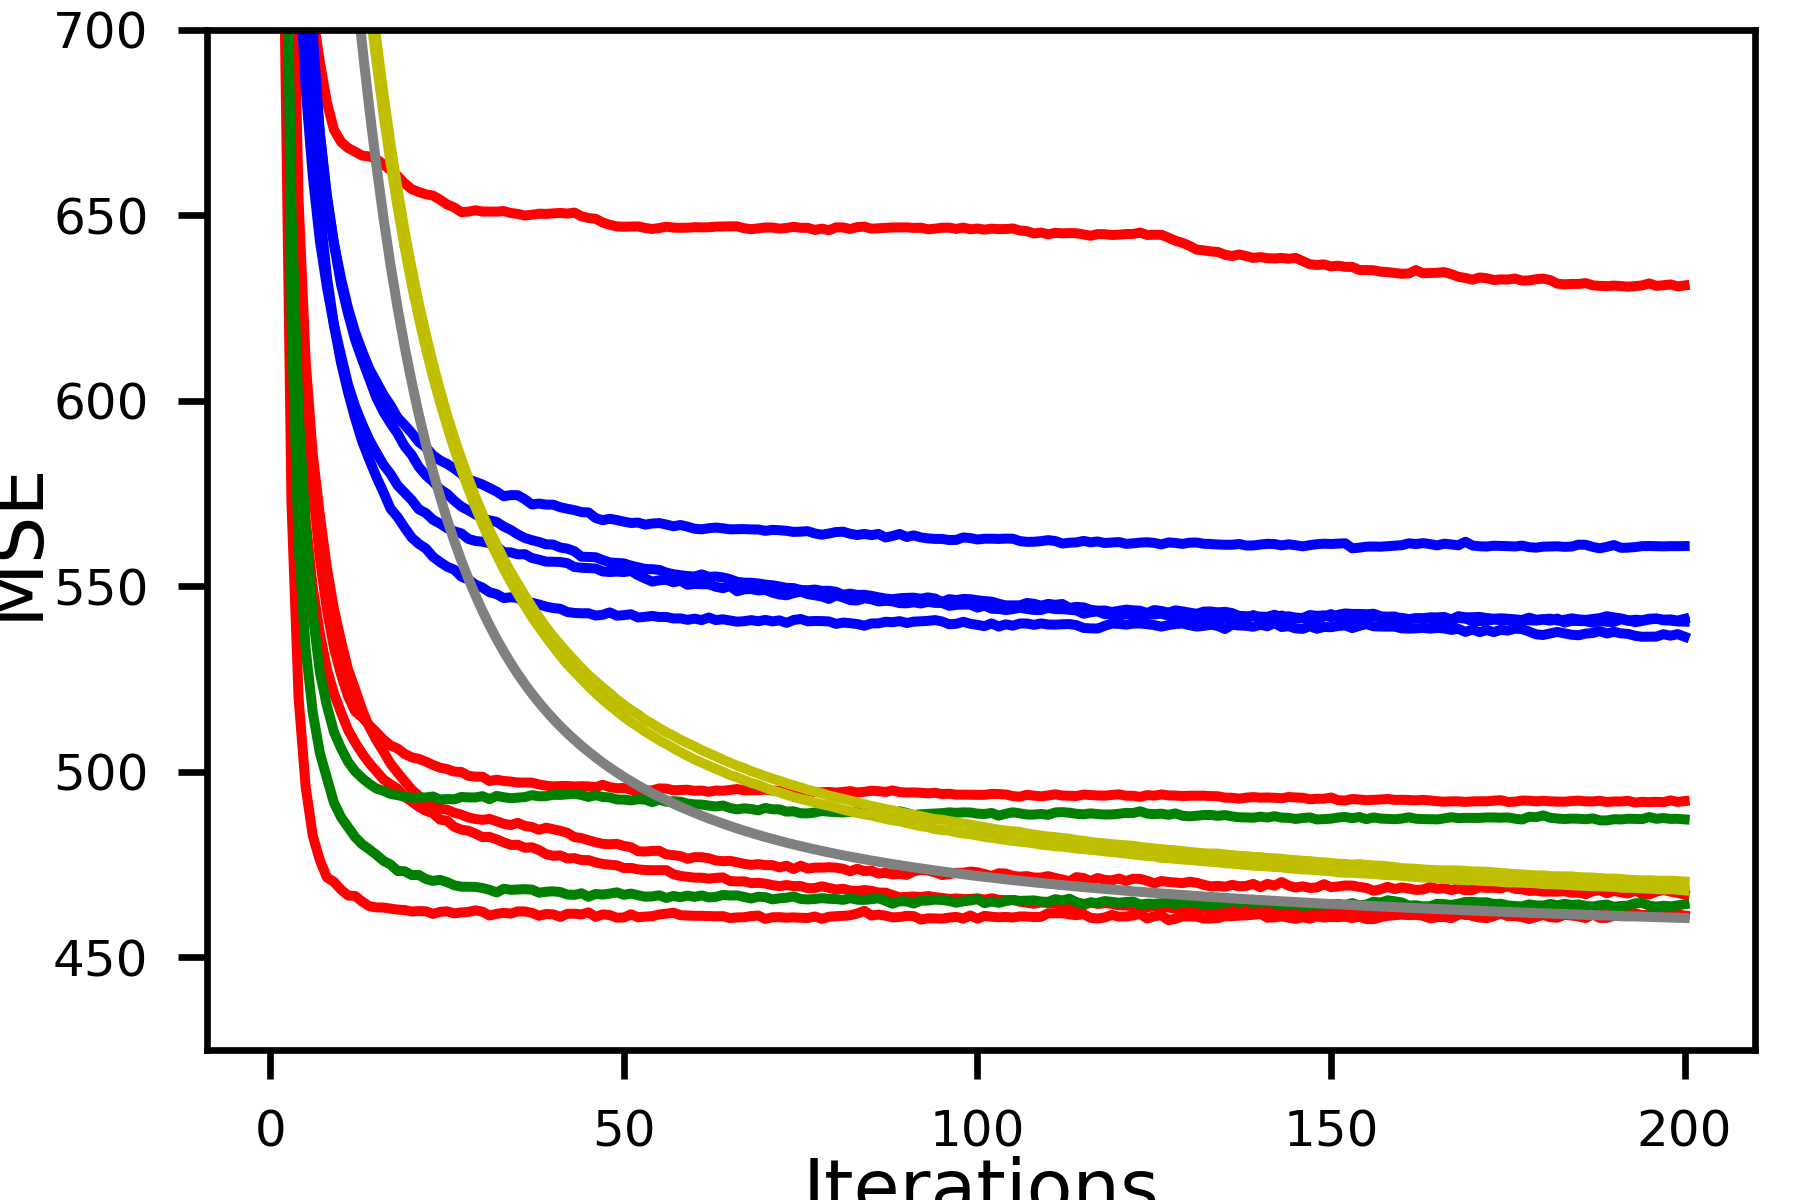
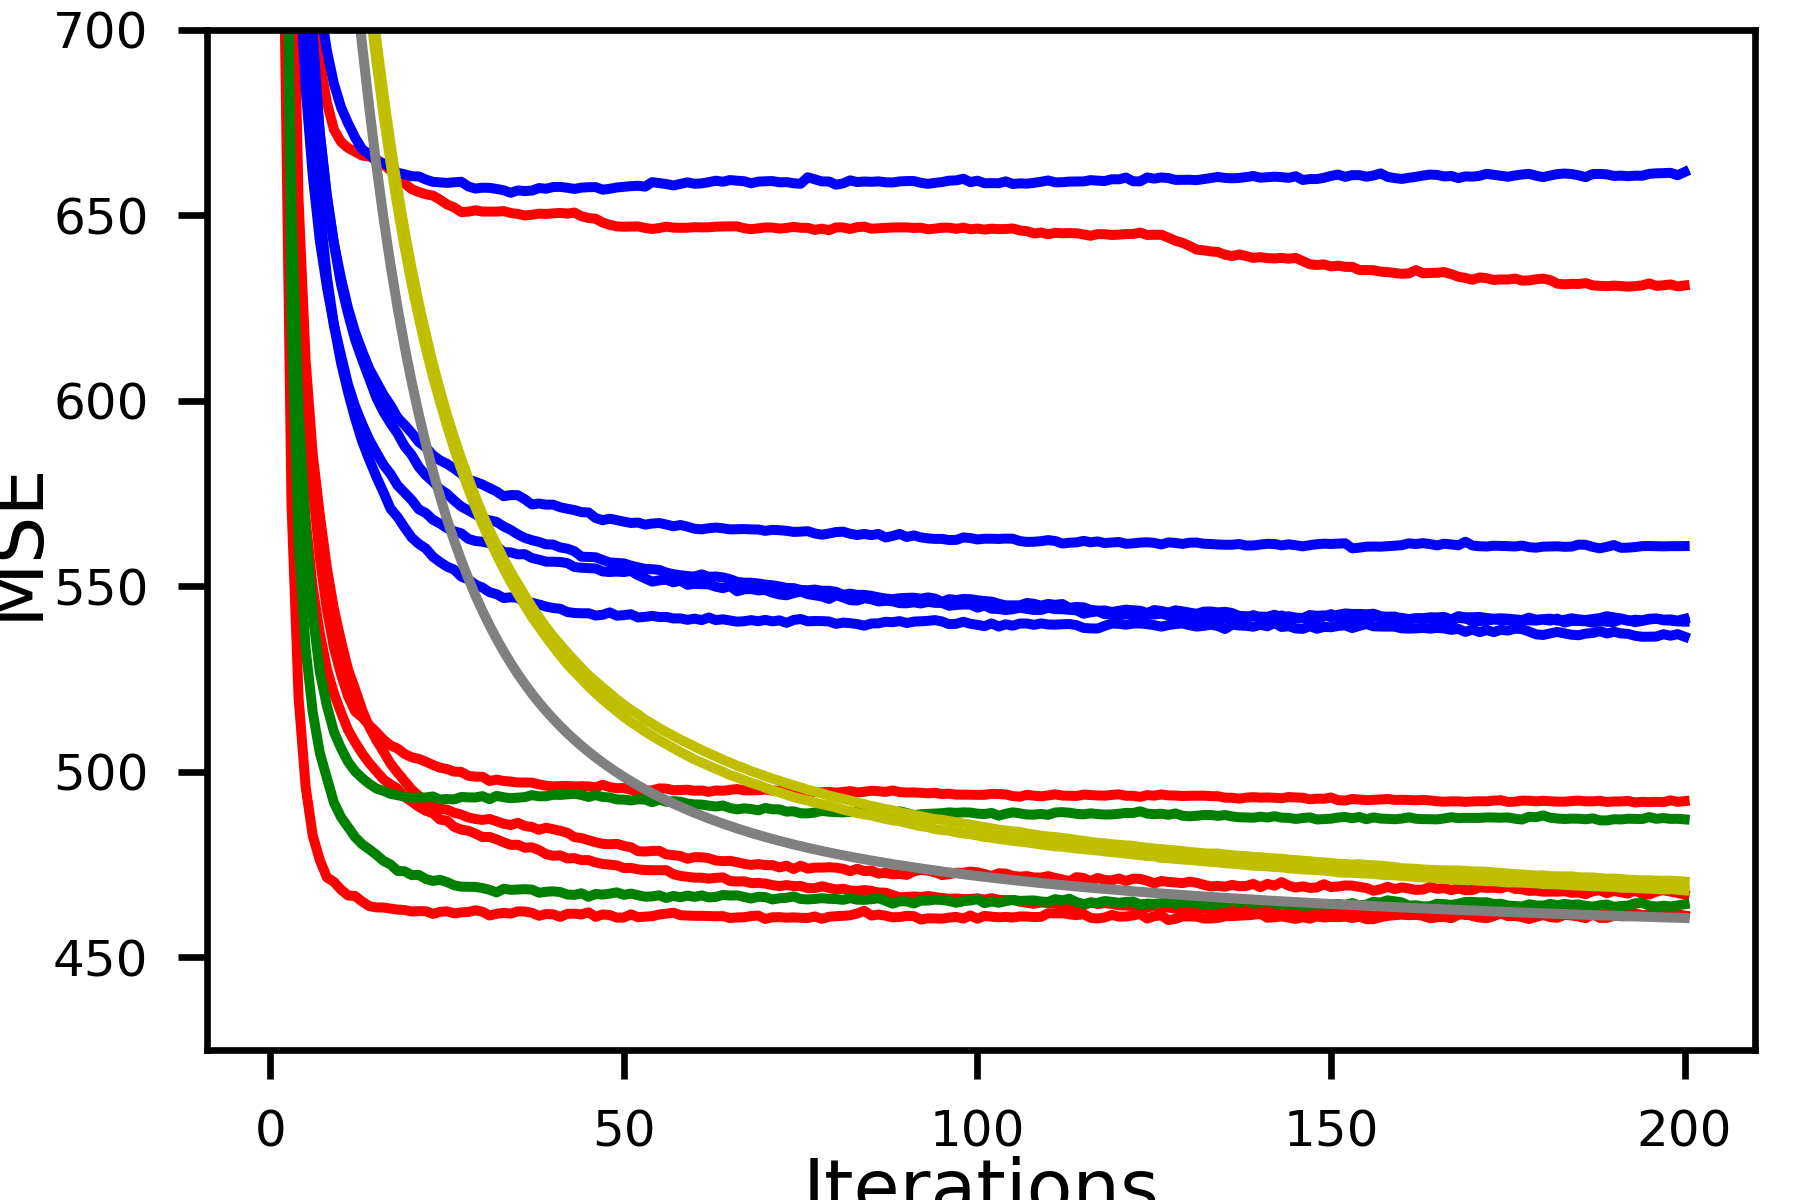
Prepared Jester xval scripts.

Changed region(s): [[0.2178, 0.1233, 0.9333, 0.185], [0.1867, 0.0617, 0.2178, 0.1233], [0.1556, 0.0308, 0.1867, 0.0617]]

diff --git a/experiments/convergence/drug_sensitivity_gdsc/plots/plot_convergences.py b/experiments/convergence/drug_sensitivity_gdsc/plots/plot_convergences.py
@@ -26,7 +26,8 @@ gee = eval(open(folder_results+'performances_gaussian_exponential.txt','r').read
 geea = eval(open(folder_results+'performances_gaussian_exponential_ard.txt','r').read())
 gtt = eval(open(folder_results+'performances_gaussian_truncatednormal.txt','r').read())
 gttn = eval(open(folder_results+'performances_gaussian_truncatednormal_hierarchical.txt','r').read())
-ghh = eval(open(folder_results+'performances_gaussian_halfnormal.txt','r').read())
+gll = eval(open(folder_results+'performances_gaussian_l21.txt','r').read())
+#ghh = eval(open(folder_results+'performances_gaussian_halfnormal.txt','r').read())
 pgg = eval(open(folder_results+'performances_poisson_gamma.txt','r').read())
 pggg = eval(open(folder_results+'performances_poisson_gamma_gamma.txt','r').read())
 
@@ -48,7 +49,7 @@ performances_names_colours_linestyles_markers = [
     (geea, 'GEEA', 'b', '-', ''),
     (gtt,  'GTT',  'b', '-', ''),
     (gttn, 'GTTN', 'b', '-', ''),
-#    (ghh,  'GHH',  'b', '-', ''),
+    (gll,  'GLL',  'b', '-', ''),
     (pgg,  'PGG',  'y', '-', ''),
     (pggg, 'PGGG', 'y', '-', ''),
     (nmf_np, 'Row',    'grey', '-', ''),

diff --git a/code/models/Gibbs/initialise.py b/code/models/Gibbs/initialise.py
@@ -93,6 +93,11 @@ def initialise_U_halfnormal(init, I, K, sigma):
         U[i,k] = initialise(sigma=sigma)
     return U
     
+def initialise_U_l21(init, I, K, lamb):
+    """ Initialise U, with prior U ~ L21(lamb).
+        We cannot sample from this prior, so we initialise U_ik ~ TN(0,lamb). """
+    return initialise_U_truncatednormal(init=init, I=I, K=K, mu=0., tau=lamb)
+    
 def initialise_U_volumeprior(init, I, K, gamma):
     """ Initialise U, with prior U ~ VP(gamma).
         We cannot sample from this prior, so we initialise U_ik ~ N(0,1). """

diff --git a/experiments/cross_validation/jester/poisson_gamma_gamma.py b/experiments/cross_validation/jester/poisson_gamma_gamma.py
@@ -3,7 +3,7 @@ Run nested cross-validation experiment on the Jester dataset, with
 Poisson likelihood, Gamma priors, and Gamma hierarchical priors.
 '''
 
-project_location = "/Users/thomasbrouwer/Documents/Projects/libraries/"
+project_location = "/home/tab43/Documents/Projects/libraries/"
 import sys
 sys.path.append(project_location)
 
@@ -27,7 +27,7 @@ predict_config = {
 
 
 ''' Settings nested cross-validation. '''
-K_range = [1,2,3,4,5,6,7]
+K_range = [1,2,3,4,5]
 no_folds = 5
 no_threads = 5
 parallel = False

diff --git a/experiments/cross_validation/jester/gaussian_gaussian_volumeprior_nonnegative.py b/experiments/cross_validation/jester/gaussian_gaussian_volumeprior_nonnegative.py
@@ -3,7 +3,7 @@ Run nested cross-validation experiment on the Jester dataset, with
 the Gaussian + Gaussian + Volume Prior (nonnegative) model.
 '''
 
-project_location = "/Users/thomasbrouwer/Documents/Projects/libraries/"
+project_location = "/home/tab43/Documents/Projects/libraries/"
 import sys
 sys.path.append(project_location)
 
@@ -27,7 +27,7 @@ predict_config = {
 
 
 ''' Settings nested cross-validation. '''
-K_range = [1,2,3]
+K_range = [1,2,3,4]
 no_folds = 5
 no_threads = 5
 parallel = False

diff --git a/experiments/cross_validation/jester/gaussian_gaussian_volumeprior.py b/experiments/cross_validation/jester/gaussian_gaussian_volumeprior.py
@@ -3,7 +3,7 @@ Run nested cross-validation experiment on the Jester dataset, with
 the Gaussian + Gaussian + Volume Prior model.
 '''
 
-project_location = "/Users/thomasbrouwer/Documents/Projects/libraries/"
+project_location = "/home/tab43/Documents/Projects/libraries/"
 import sys
 sys.path.append(project_location)
 
@@ -27,7 +27,7 @@ predict_config = {
 
 
 ''' Settings nested cross-validation. '''
-K_range = [2,3,4]
+K_range = [1,2,3,4]
 no_folds = 5
 no_threads = 5
 parallel = False

diff --git a/experiments/cross_validation/jester/baseline_mf_nonprobabilistic.py b/experiments/cross_validation/jester/baseline_mf_nonprobabilistic.py
@@ -3,7 +3,7 @@ Run nested cross-validation experiment on the Jester dataset, with the
 non-probabilistic MF baseline.
 '''
 
-project_location = "/Users/thomasbrouwer/Documents/Projects/libraries/"
+project_location = "/home/tab43/Documents/Projects/libraries/"
 import sys
 sys.path.append(project_location)
 
@@ -27,7 +27,7 @@ predict_config = {
 
 
 ''' Settings nested cross-validation. '''
-K_range = [1,2,3]
+K_range = [1,2,3,4,5]
 no_folds = 5
 no_threads = 5
 parallel = False

diff --git a/experiments/cross_validation/jester/poisson_gamma.py b/experiments/cross_validation/jester/poisson_gamma.py
@@ -3,7 +3,7 @@ Run nested cross-validation experiment on the Jester dataset, with
 the Poisson + Gamma model.
 '''
 
-project_location = "/Users/thomasbrouwer/Documents/Projects/libraries/"
+project_location = "/home/tab43/Documents/Projects/libraries/"
 import sys
 sys.path.append(project_location)
 
@@ -27,7 +27,7 @@ predict_config = {
 
 
 ''' Settings nested cross-validation. '''
-K_range = [1,2,3,4,5,6,7]
+K_range = [1,2,3,4,5]
 no_folds = 5
 no_threads = 5
 parallel = False

diff --git a/experiments/cross_validation/jester/gaussian_gaussian_exponential.py b/experiments/cross_validation/jester/gaussian_gaussian_exponential.py
@@ -3,7 +3,7 @@ Run nested cross-validation experiment on the Jester dataset, with
 the Gaussian + Gaussian (multivariate posterior) + Exponential model.
 '''
 
-project_location = "/Users/thomasbrouwer/Documents/Projects/libraries/"
+project_location = "/home/tab43/Documents/Projects/libraries/"
 import sys
 sys.path.append(project_location)
 

diff --git a/experiments/cross_validation/jester/gaussian_gaussian_wishart.py b/experiments/cross_validation/jester/gaussian_gaussian_wishart.py
@@ -3,7 +3,7 @@ Run nested cross-validation experiment on the Jester dataset, with
 the All Gaussian model (multivariate posterior) and Wishart prior.
 '''
 
-project_location = "/Users/thomasbrouwer/Documents/Projects/libraries/"
+project_location = "/home/tab43/Documents/Projects/libraries/"
 import sys
 sys.path.append(project_location)
 

diff --git a/experiments/cross_validation/jester/gaussian_gaussian_ard.py b/experiments/cross_validation/jester/gaussian_gaussian_ard.py
@@ -3,7 +3,7 @@ Run nested cross-validation experiment on the Jester dataset, with
 the All Gaussian model (multivariate posterior) wih ARD.
 '''
 
-project_location = "/Users/thomasbrouwer/Documents/Projects/libraries/"
+project_location = "/home/tab43/Documents/Projects/libraries/"
 import sys
 sys.path.append(project_location)
 

diff --git a/experiments/cross_validation/jester/gaussian_truncatednormal_hierarchical.py b/experiments/cross_validation/jester/gaussian_truncatednormal_hierarchical.py
@@ -3,7 +3,7 @@ Run nested cross-validation experiment on the Jester dataset, with
 the Gaussian + Truncated Normal + hierarchical model.
 '''
 
-project_location = "/Users/thomasbrouwer/Documents/Projects/libraries/"
+project_location = "/home/tab43/Documents/Projects/libraries/"
 import sys
 sys.path.append(project_location)
 

diff --git a/experiments/cross_validation/jester/gaussian_gaussian.py b/experiments/cross_validation/jester/gaussian_gaussian.py
@@ -3,7 +3,7 @@ Run nested cross-validation experiment on the Jester dataset,
 with the All Gaussian model (multivariate posterior).
 '''
 
-project_location = "/Users/thomasbrouwer/Documents/Projects/libraries/"
+project_location = "/home/tab43/Documents/Projects/libraries/"
 import sys
 sys.path.append(project_location)
 
